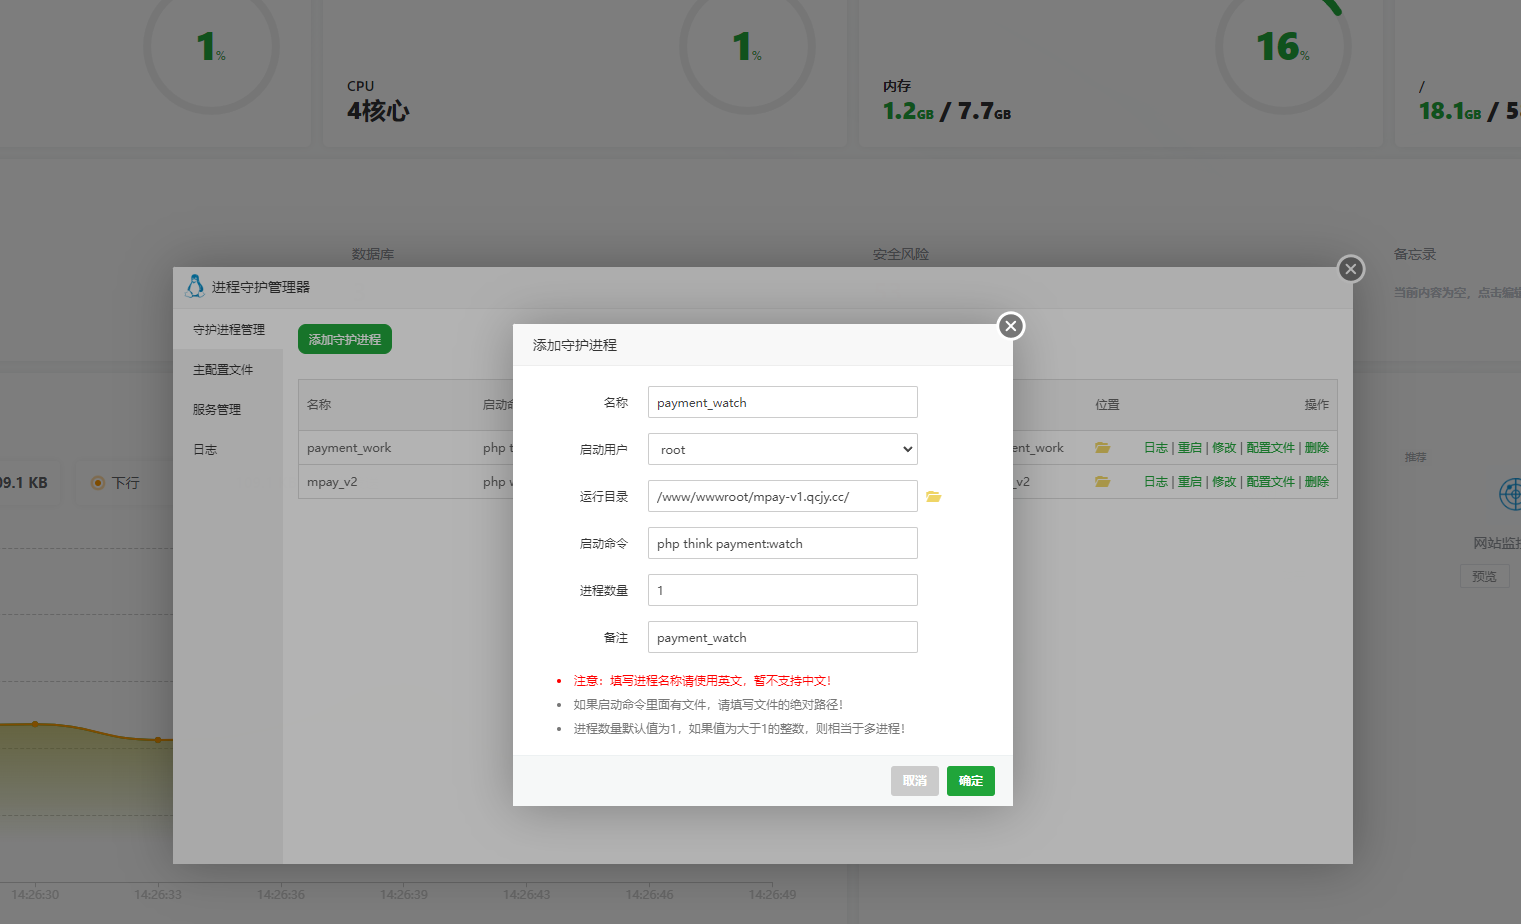
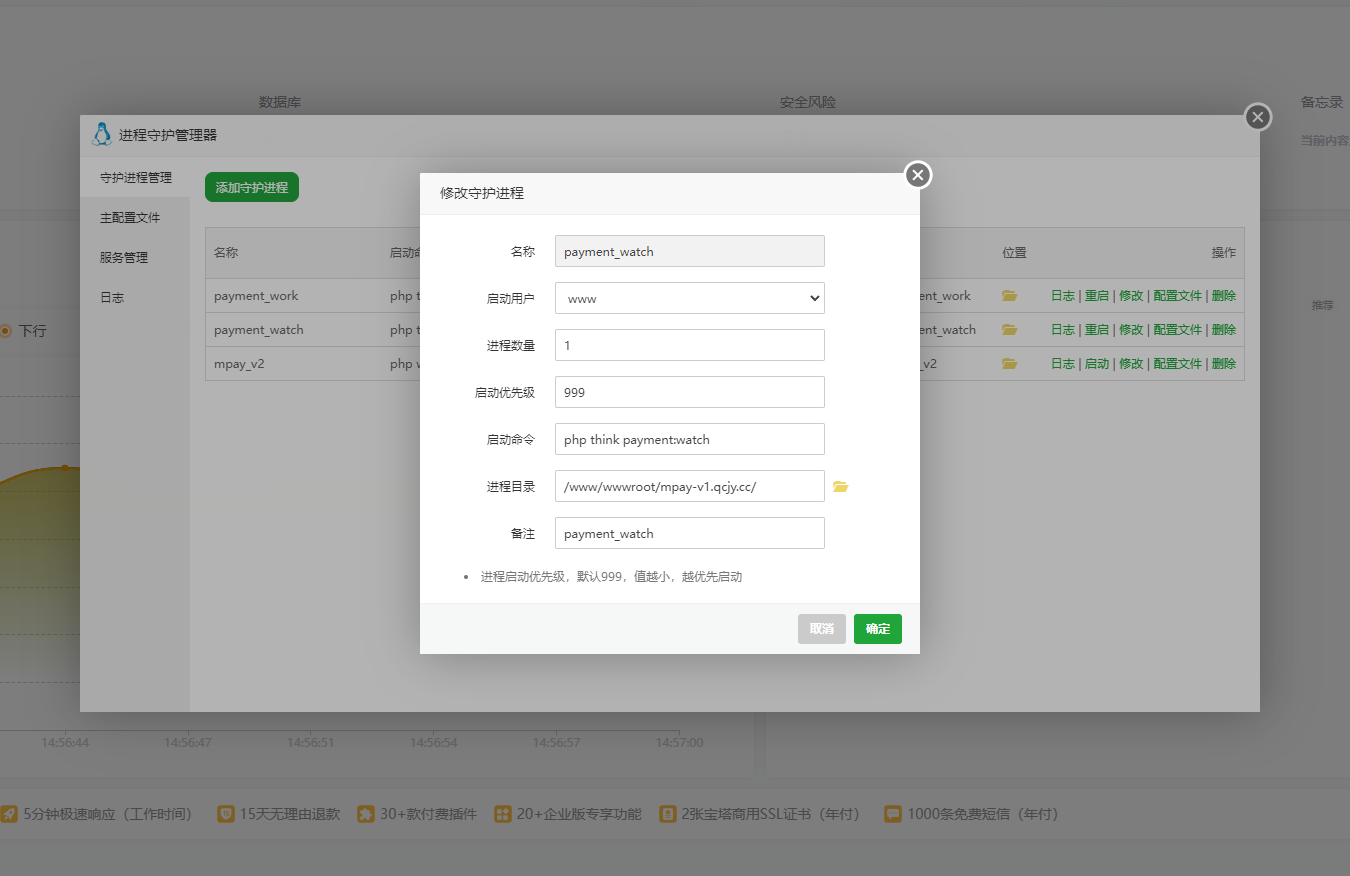
文档: 统一守护进程使用 www 并更新配置截图

diff --git a/docs/wiki/examples/install-README.md b/docs/wiki/examples/install-README.md
@@ -26,7 +26,7 @@ MPAY 是基于 ThinkPHP 与 Layui 的收款管理程序，提供多应用 PID/KE
 3. 创建独立空数据库及其账号。安装时账号需具备建表、索引、外键和数据读写权限。安装器不会创建或清空数据库。
 4. 确保 PHP 进程可写项目根目录、`runtime/` 和 `public/storage/`。访问 `https://你的域名/install`，完成环境检查、数据库连接和管理员设置。
 5. 安装完成后，限制 `.env` 仅供站点运行账号读取，并收紧项目根目录写权限；`runtime/` 和 `public/storage/` 继续保留运行所需写权限。安装入口会自动关闭。
-6. 在进程管理工具中分别守护以下两个命令，工作目录设置为项目目录：
+6. 在进程管理工具中分别守护以下两个命令，工作目录设置为项目目录。宝塔中两个任务的启动用户均选择 `www`，与网站 PHP 运行用户保持一致，每个任务的进程数量设为 `1`：
 
    ```sh
    php think payment:watch

diff --git a/docs/wiki/新手-宝塔建站准备.md b/docs/wiki/新手-宝塔建站准备.md
@@ -153,7 +153,7 @@ PHP 运行账号需要写入 `runtime/`、`public/storage/`；安装期间还需
 
 ## 8. 添加两个后台任务
 
-在宝塔的软件商店安装或打开可用的进程守护工具，按[后台任务图文](V1-18-部署与后台任务.md#用进程守护工具添加任务)建立两个任务，每个任务只填一条命令。
+在宝塔的软件商店安装或打开可用的进程守护工具，按[后台任务图文](V1-18-部署与后台任务.md#用进程守护工具添加任务)建立两个任务，**启动用户均选择 `www`**，与网站 PHP 的运行用户一致；每个任务只填一条命令，进程数量设为 `1`。
 
 如果本站安装的是 PHP 8.2，且程序目录正好是上文示例，命令分别为：
 
